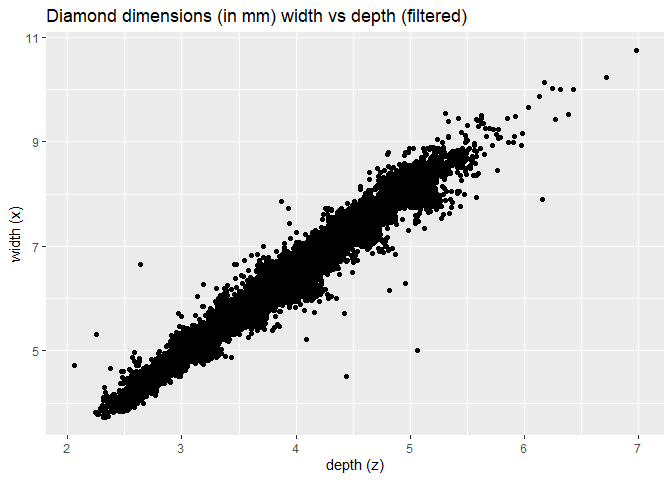
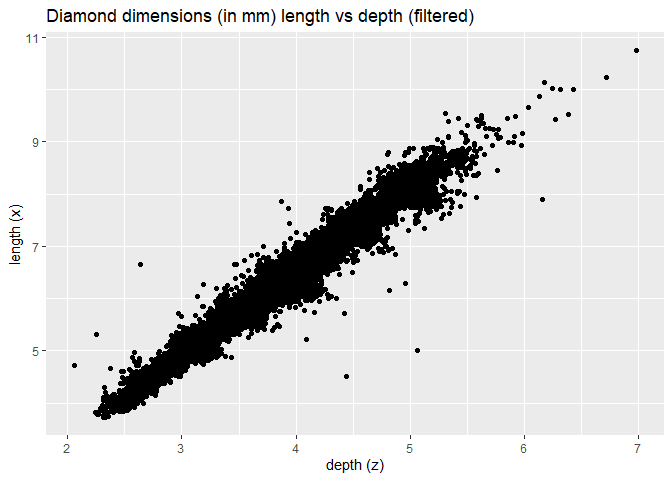
fixed naming

Changed region(s): [[0.4062, 0.0, 0.7188, 0.0625], [0.0, 0.4062, 0.0312, 0.5625]]

diff --git a/hw_5.md b/hw_5.md
@@ -37,12 +37,12 @@ head(diamonds_subset)
     ## # A tibble: 6 x 10
     ##   carat cut       color clarity depth table price     x     y     z
     ##   <dbl> <ord>     <ord> <ord>   <dbl> <dbl> <int> <dbl> <dbl> <dbl>
-    ## 1  0.42 Ideal     E     VVS2     61.8    56  1216  4.78  4.8   2.96
-    ## 2  0.7  Very Good F     VS2      62.3    59  2744  5.63  5.7   3.53
-    ## 3  1.01 Ideal     E     VVS2     60      55  9310  6.56  6.6   3.95
-    ## 4  0.39 Very Good F     VS2      63.3    55  1011  4.66  4.63  2.94
-    ## 5  1.05 Premium   H     VS2      61.1    58  5323  6.57  6.53  4   
-    ## 6  0.41 Premium   F     VVS2     60.6    58  1115  4.79  4.84  2.92
+    ## 1  0.31 Ideal     G     VS2      60.8    56   562  4.38  4.4   2.67
+    ## 2  1.16 Ideal     H     SI1      60      60  5852  6.87  6.84  4.11
+    ## 3  1.32 Ideal     F     SI1      61.6    56  7079  7.11  7.05  4.36
+    ## 4  0.4  Ideal     G     SI1      62.3    54   741  4.74  4.77  2.96
+    ## 5  0.32 Good      H     SI1      63.1    58   461  4.33  4.36  2.74
+    ## 6  1.03 Very Good G     SI2      63.1    58  4060  6.41  6.37  4.03
 
 ##### 3) Calculate the average size of the 100 largest diamonds in each clarity category (using the diamonds subset).
 
@@ -58,14 +58,14 @@ diamonds_subset %>%
     ## # Groups:   clarity [8]
     ##   clarity     n
     ##   <ord>   <int>
-    ## 1 I1          9
-    ## 2 SI2        94
-    ## 3 SI1       128
-    ## 4 VS2       126
-    ## 5 VS1        87
-    ## 6 VVS2       51
-    ## 7 VVS1       33
-    ## 8 IF         11
+    ## 1 I1          6
+    ## 2 SI2        78
+    ## 3 SI1       138
+    ## 4 VS2       123
+    ## 5 VS1        86
+    ## 6 VVS2       53
+    ## 7 VVS1       41
+    ## 8 IF         14
 
 ##### Since there are not 100 in each category, we will expand back to the original diamonds dataset
 
@@ -136,12 +136,12 @@ largest_diamonds %>%
     ## 7 VVS1             1.51
     ## 8 IF               1.40
 
-##### 4) Make two scatter plots, width(x) vs length(y) and width(x) vs depth(z). The naming on the assignment suggests to plot width on the y-axis and length,depth on the x-axis.
+##### 4) Make two scatter plots, length(x) vs width(y) and length(x) vs depth(z). The naming on the assignment suggests to plot length on the y-axis and width,depth on the x-axis.
 
 ``` r
 ggplot(data = diamonds) +
   geom_point(mapping = aes(x = y, y = x)) +
-  labs(title = "Diamond dimensions (in mm) width vs length", x = "length (y)", y = "width (x)")
+  labs(title = "Diamond dimensions (in mm) length vs width", x = "width (y)", y = "length (x)")
 ```
 
 ![](hw_5_files/figure-gfm/unnamed-chunk-8-1.png)<!-- -->
@@ -149,7 +149,7 @@ ggplot(data = diamonds) +
 ``` r
 ggplot(data = diamonds) +
   geom_point(mapping = aes(x = z, y = x)) +
-  labs(title = "Diamond dimensions (in mm) width vs depth", x = "depth (z)", y = "width (x)")
+  labs(title = "Diamond dimensions (in mm) length vs depth", x = "depth (z)", y = "length (x)")
 ```
 
 ![](hw_5_files/figure-gfm/unnamed-chunk-9-1.png)<!-- -->
@@ -180,7 +180,7 @@ head(diamonds_filtered)
 ``` r
 ggplot(data = diamonds_filtered) +
   geom_point(mapping = aes(x = y, y = x)) +
-  labs(title = "Diamond dimensions (in mm) width vs length (filtered)", x = "length (y)", y = "width (x)")
+  labs(title = "Diamond dimensions (in mm) length vs width (filtered)", x = "width (y)", y = "length (x)")
 ```
 
 ![](hw_5_files/figure-gfm/unnamed-chunk-11-1.png)<!-- -->
@@ -188,7 +188,7 @@ ggplot(data = diamonds_filtered) +
 ``` r
 ggplot(data = diamonds_filtered) +
   geom_point(mapping = aes(x = z, y = x)) +
-  labs(title = "Diamond dimensions (in mm) width vs depth (filtered)", x = "depth (z)", y = "width (x)")
+  labs(title = "Diamond dimensions (in mm) length vs depth (filtered)", x = "depth (z)", y = "length (x)")
 ```
 
 ![](hw_5_files/figure-gfm/unnamed-chunk-12-1.png)<!-- -->
